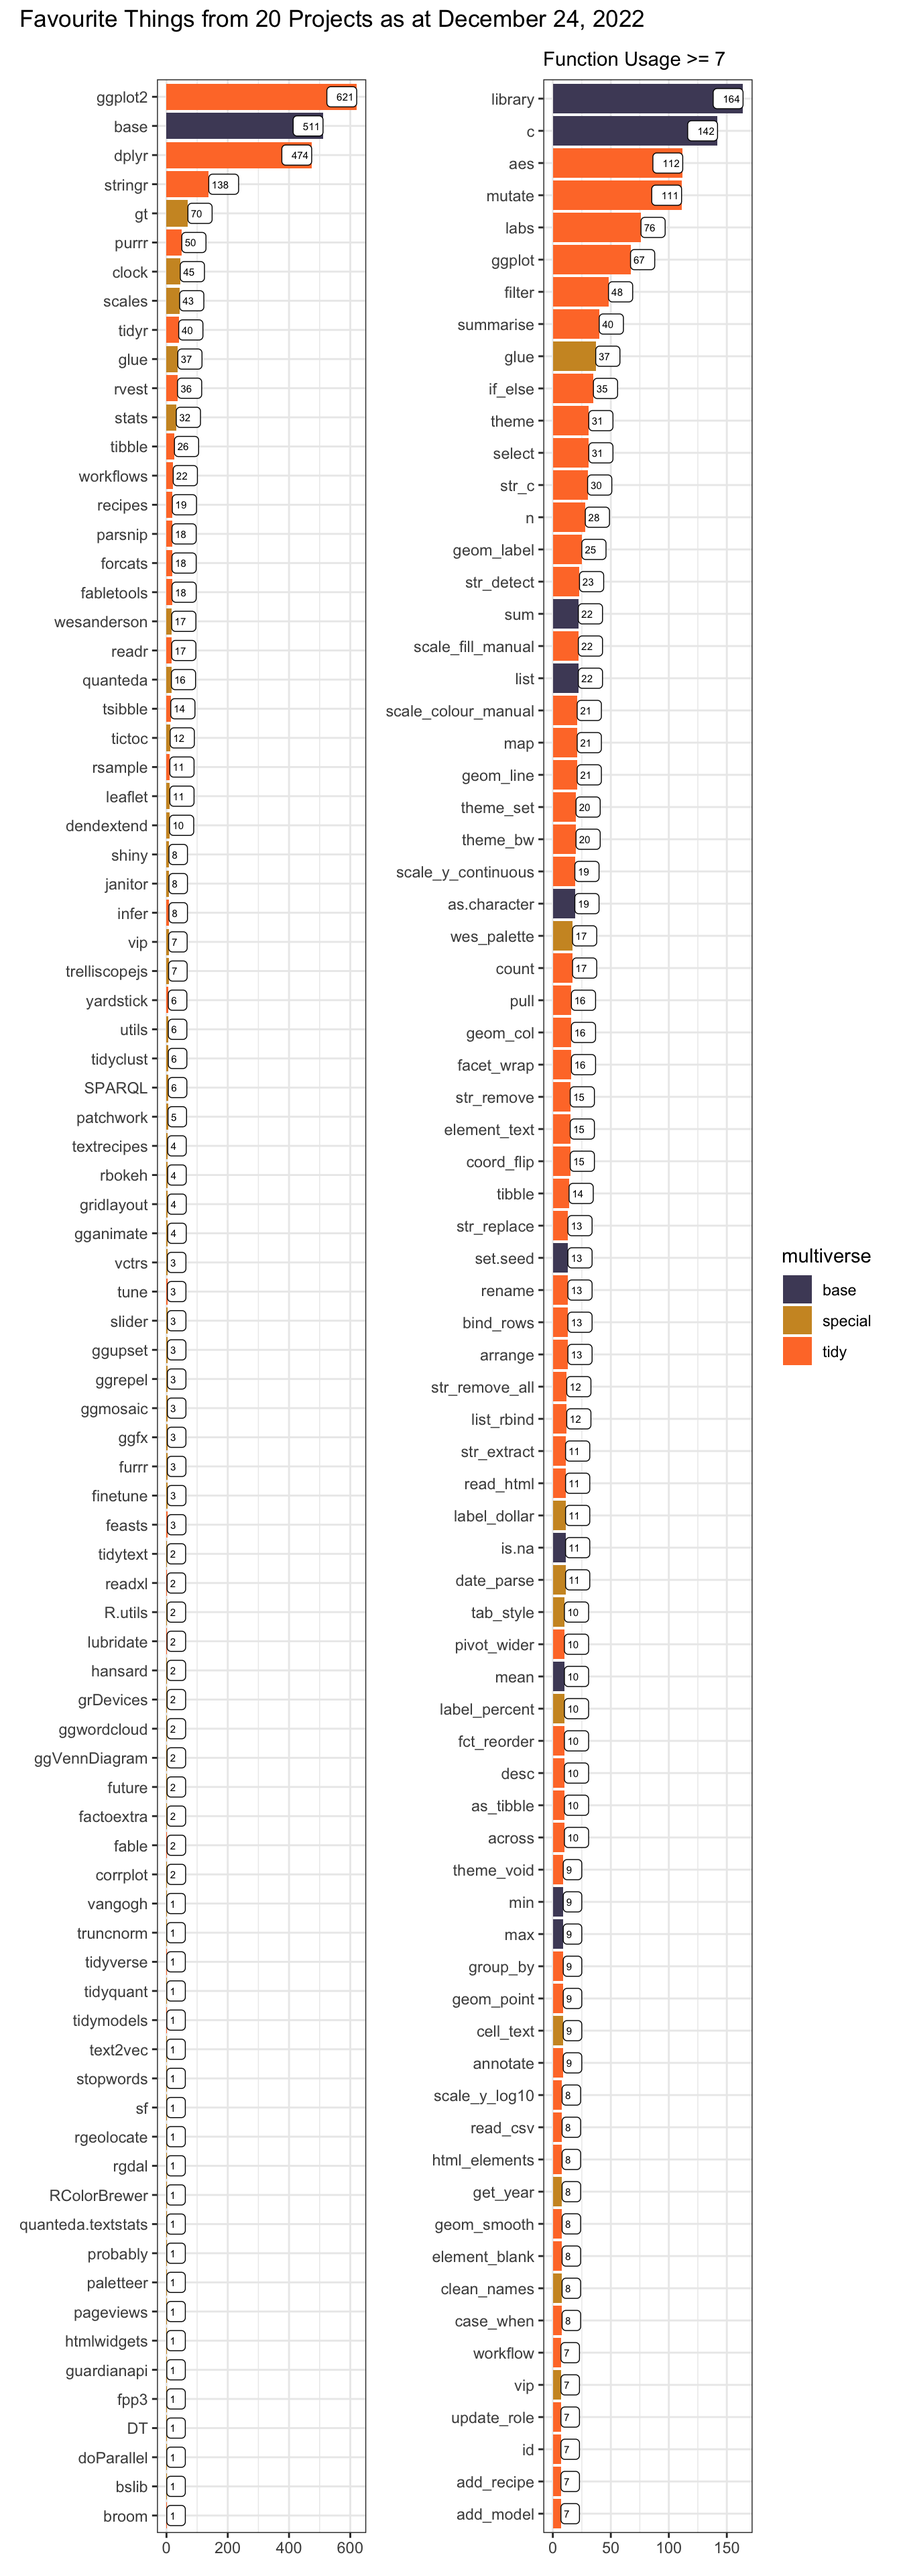
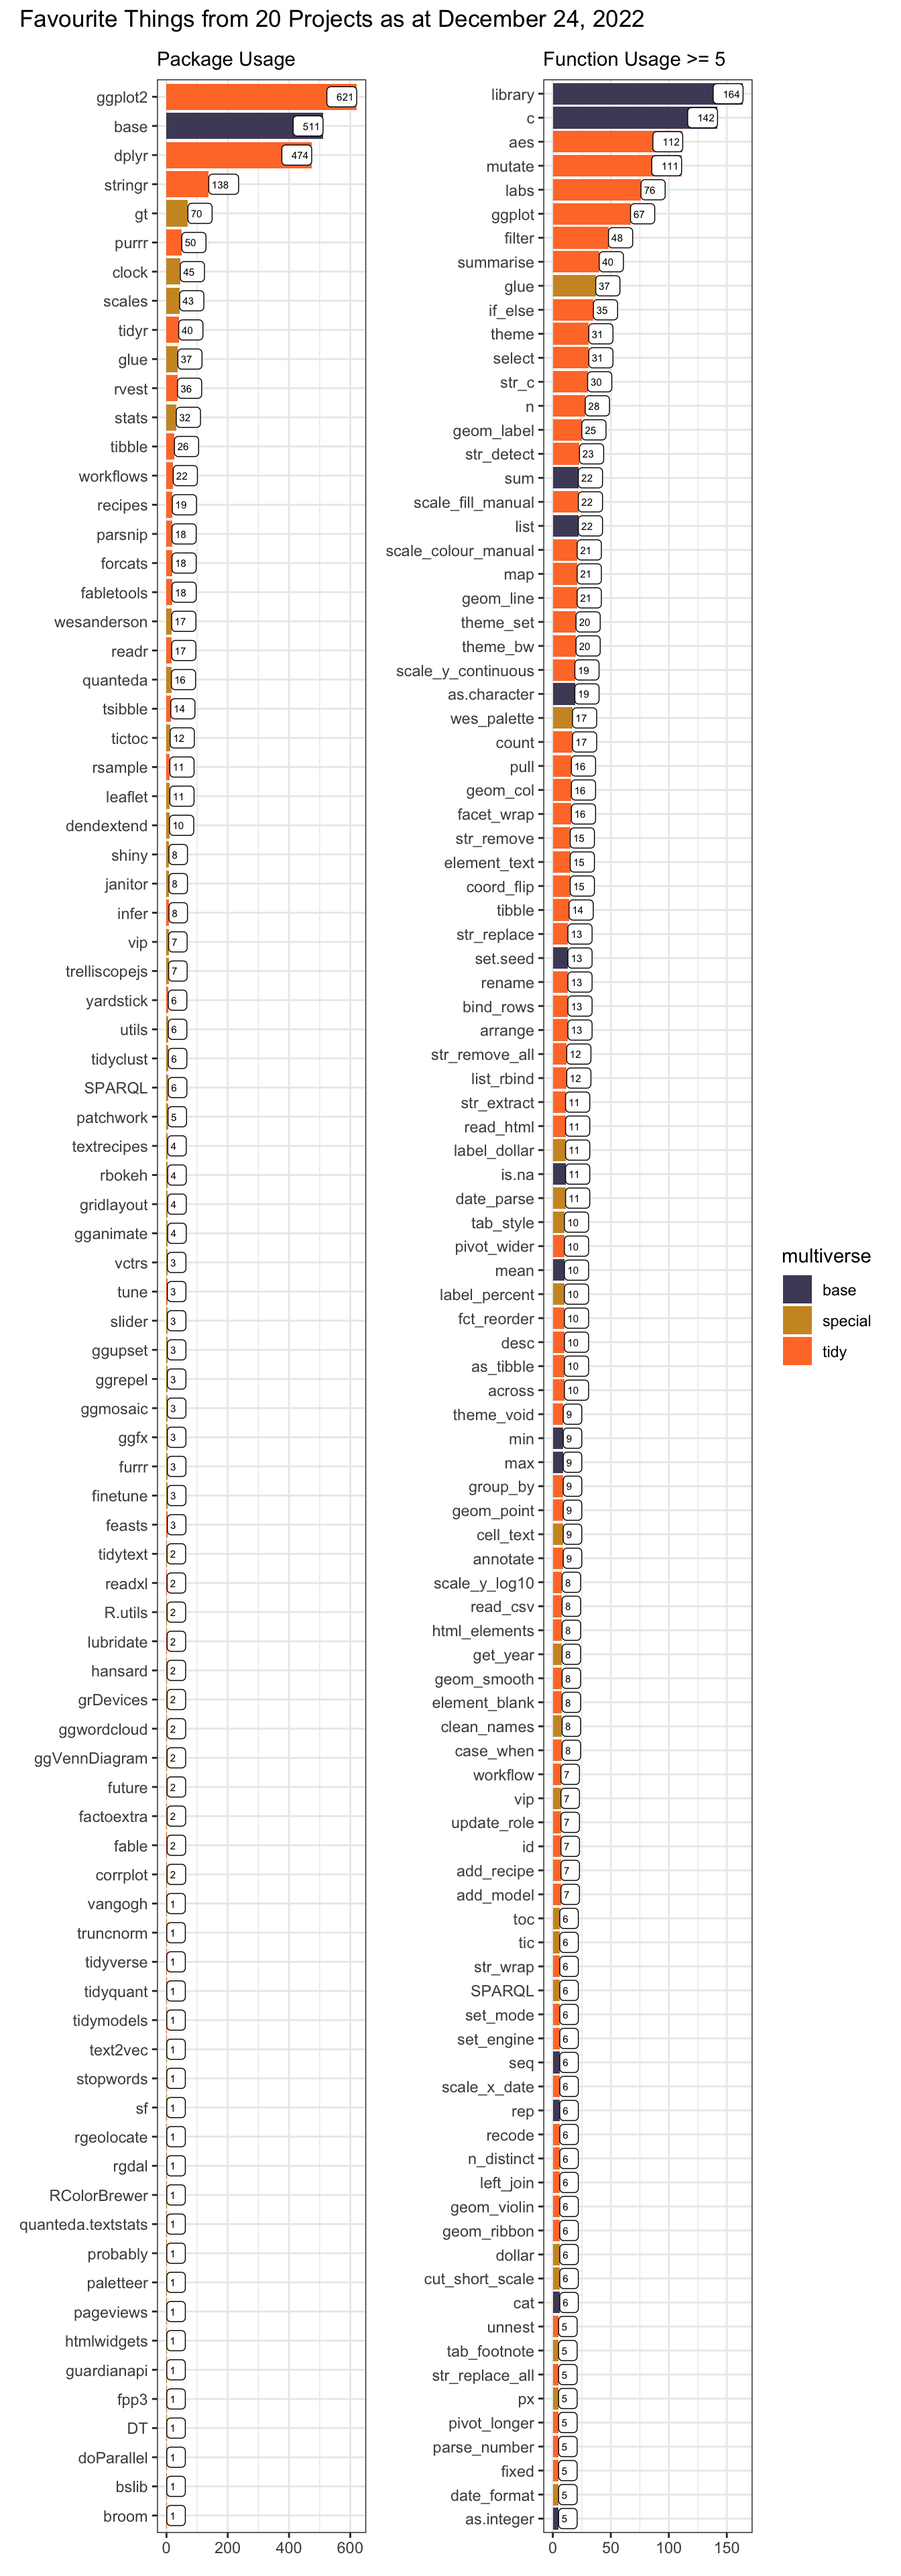
Update Toolbox

Changed region(s): [[0.4375, 0.0312, 0.8438, 1.0], [0.75, 0.5, 0.7812, 0.5312]]

diff --git a/_site/project/box/index.html b/_site/project/box/index.html
@@ -224,7 +224,7 @@ code span.wa { color: #60a0b0; font-weight: bold; font-style: italic; } /* Warni
     <div>
     <div class="quarto-title-meta-heading">Modified</div>
     <div class="quarto-title-meta-contents">
-      <p class="date-modified">December 23, 2022</p>
+      <p class="date-modified">December 24, 2022</p>
     </div>
   </div>
     
@@ -232,9 +232,14 @@ code span.wa { color: #60a0b0; font-weight: bold; font-style: italic; } /* Warni
   
 
 </header><p><img src="feature-1.png" class="img-fluid" alt="Wordcloud of this site's most used R packages and functions"></p>
-<p>Each <a href="../../project/">project</a> closes with a table summarising the R tools used. By visualising the most frequently used packages and functions I can get a sense of where I may most benefit from going deeper into the latest package versions.</p>
-<p>Early on, it was an opportunity to replace superseded functions like <code>spread</code> and <code>gather</code> with <code>pivot_wider</code> and <code>pivot_longer</code>. More recently there have been examples of using newer packages such as <a href="https://github.com/EmilHvitfeldt/tidyclust">tidyclust</a>, which brings cluster modelling to tidymodels (used in the latest quarto version of <a href="https://www.quantumjitter.com/project/happiness/">Finding Happiness in ‘The Smoke’</a>), or <a href="https://rstudio.github.io/bslib/">bslib</a>, used in the latest shiny app embedded in <a href="https://www.quantumjitter.com/project/thicken/">Plots Thicken</a>.</p>
-<p>And in the latest refresh, the newest versions of dplyr and purrr have offered many opportunities for improvements. For example, the <code>.by</code> argument in <code>mutate</code> and friends as an alternative to <code>group_by</code> and <code>ungroup</code>. And changes in the <code>map_</code> family which introduce <code>list_rbind</code> and associates.</p>
+<p>Each <a href="../../project/">project</a> closes with a table summarising the R tools used. By aggregating the package and function usage across all projects, there’s an opportunity to:</p>
+<ul>
+<li><p>Spot the use of superseded functions like <code>map_dfr</code></p></li>
+<li><p>Check for usage consistency, e.g.&nbsp;<code><a href="https://clock.r-lib.org/reference/date-today.html">clock::date_today</a></code> versus <code>Sys.Date</code></p></li>
+<li><p>See where it would be most useful to keep an eye on package version updates</p></li>
+</ul>
+<p>Since starting this in 2017, functions like tidyr’s <code>spread</code> and <code>gather</code> have been superseded by <code>pivot_wider</code> and <code>pivot_longer</code>. Newer packages have emerged like <a href="https://github.com/EmilHvitfeldt/tidyclust">tidyclust</a>, which brings cluster modelling to tidymodels (now used in <a href="https://www.quantumjitter.com/project/happiness/">Finding Happiness in ‘The Smoke’</a>). <a href="https://rstudio.github.io/bslib/">bslib</a> has brought improvements to the latest shiny app version embedded in <a href="https://www.quantumjitter.com/project/thicken/">Plots Thicken</a>. The paletteer package has put it’s arms around the myriad palette packages out there. And scales’ <code>cut_short_scale</code> assisted with plot labelling.</p>
+<p>Most recently, the latest versions of dplyr and purrr have presented a host of enhancements. For example, the <code>.by</code> argument in <code>mutate</code> and friends offers a neat alternative to <code>group_by</code> and <code>ungroup</code> in many situations. And changes in the <code>map_</code> family introduce <code>list_rbind</code> and associates with <code>map_dfr</code>, for example, now superseded.</p>
 <div class="cell">
 <div class="sourceCode" id="cb1"><pre class="downlit sourceCode r code-with-copy"><code class="sourceCode R"><span><span class="kw"><a href="https://rdrr.io/r/base/library.html">library</a></span><span class="op">(</span><span class="va"><a href="https://tidyverse.tidyverse.org">tidyverse</a></span><span class="op">)</span></span>
 <span><span class="kw"><a href="https://rdrr.io/r/base/library.html">library</a></span><span class="op">(</span><span class="va"><a href="https://github.com/juliasilge/tidytext">tidytext</a></span><span class="op">)</span></span>
@@ -276,7 +281,7 @@ code span.wa { color: #60a0b0; font-weight: bold; font-style: italic; } /* Warni
 <p><img src="index_files/figure-html/theme-1.png" class="img-fluid" style="width:100.0%"></p>
 </div>
 </div>
-<p>I’ll start by grabbing the url for all projects.</p>
+<p>We need to web-scrape <a href="https://www.quantumjitter.com/project/">all the projects on this web-site</a>, starting by grabbing the url for each one.</p>
 <div class="cell">
 <div class="sourceCode" id="cb3"><pre class="downlit sourceCode r code-with-copy"><code class="sourceCode R"><span><span class="va">urls</span> <span class="op">&lt;-</span> <span class="st">"https://www.quantumjitter.com/project/"</span> <span class="op">|&gt;</span> </span>
 <span>  <span class="fu"><a href="http://xml2.r-lib.org/reference/read_xml.html">read_html</a></span><span class="op">(</span><span class="op">)</span> <span class="op">|&gt;</span> </span>
@@ -286,7 +291,7 @@ code span.wa { color: #60a0b0; font-weight: bold; font-style: italic; } /* Warni
 <span>  <span class="fu"><a href="https://dplyr.tidyverse.org/reference/transmute.html">transmute</a></span><span class="op">(</span><span class="fu"><a href="https://stringr.tidyverse.org/reference/str_c.html">str_c</a></span><span class="op">(</span><span class="st">"https://www.quantumjitter.com/"</span>, <span class="va">value</span><span class="op">)</span><span class="op">)</span> <span class="op">|&gt;</span> </span>
 <span>  <span class="fu"><a href="https://dplyr.tidyverse.org/reference/pull.html">pull</a></span><span class="op">(</span><span class="op">)</span></span></code><button title="Copy to Clipboard" class="code-copy-button"><i class="bi"></i></button></pre></div>
 </div>
-<p>This enables me to extract the package and function usage table for each one.</p>
+<p>Then we can extract their package and function usage tables.</p>
 <div class="cell">
 <div class="sourceCode" id="cb4"><pre class="downlit sourceCode r code-with-copy"><code class="sourceCode R"><span><span class="va">table_df</span> <span class="op">&lt;-</span> <span class="fu"><a href="https://purrr.tidyverse.org/reference/map.html">map</a></span><span class="op">(</span><span class="va">urls</span>, \<span class="op">(</span><span class="va">x</span><span class="op">)</span> <span class="op">{</span></span>
 <span>  <span class="va">x</span> <span class="op">|&gt;</span></span>
@@ -300,7 +305,7 @@ code span.wa { color: #60a0b0; font-weight: bold; font-style: italic; } /* Warni
 <span>  <span class="fu"><a href="https://dplyr.tidyverse.org/reference/select.html">select</a></span><span class="op">(</span><span class="va">package</span>, <span class="va">functn</span><span class="op">)</span> <span class="op">|&gt;</span></span>
 <span>  <span class="fu"><a href="https://tidyr.tidyverse.org/reference/drop_na.html">drop_na</a></span><span class="op">(</span><span class="op">)</span></span></code><button title="Copy to Clipboard" class="code-copy-button"><i class="bi"></i></button></pre></div>
 </div>
-<p>A little “spring cleaning” is needed, and separation of tidyverse and non-tidyverse packages.</p>
+<p>Separation of tidyverse and non-tidyverse packages may be achieved by using the likes of <code>tidyverse_packages</code> which lists all packages in the tidyverse.</p>
 <ul>
 <li><a href="https://www.tidyverse.org/packages/">tidyverse</a></li>
 <li><a href="https://www.tidymodels.org/packages/">tidymodels</a></li>
@@ -329,7 +334,7 @@ code span.wa { color: #60a0b0; font-weight: bold; font-style: italic; } /* Warni
 <span>    <span class="cn">TRUE</span> <span class="op">~</span> <span class="st">"special"</span></span>
 <span>  <span class="op">)</span><span class="op">)</span></span></code><button title="Copy to Clipboard" class="code-copy-button"><i class="bi"></i></button></pre></div>
 </div>
-<p>Then I can summarise usage and prepare for a faceted plot.</p>
+<p>Then we can summarise usage.</p>
 <div class="cell">
 <div class="sourceCode" id="cb6"><pre class="downlit sourceCode r code-with-copy"><code class="sourceCode R"><span><span class="va">pack_df</span> <span class="op">&lt;-</span> <span class="va">tidy_df</span> <span class="op">|&gt;</span></span>
 <span>  <span class="fu"><a href="https://dplyr.tidyverse.org/reference/count.html">count</a></span><span class="op">(</span><span class="va">package</span>, <span class="va">multiverse</span>, wt <span class="op">=</span> <span class="va">n</span><span class="op">)</span> <span class="op">|&gt;</span></span>
@@ -350,8 +355,8 @@ code span.wa { color: #60a0b0; font-weight: bold; font-style: italic; } /* Warni
 <span>    .by <span class="op">=</span> <span class="va">name</span></span>
 <span>  <span class="op">)</span></span></code><button title="Copy to Clipboard" class="code-copy-button"><i class="bi"></i></button></pre></div>
 </div>
-<p>I’ve taken advantage of Quarto’s <code>{{&lt; include _foobar.qmd &gt;}}</code> to lift, standardise and simplify the toolbox code from the end of every project. Previously, this code (broadly repeated 20 times) inflated the function usage numbers.</p>
-<p>With the latest versions of dplyr and purrr, <code>group_by</code> has dropped a significant number of places and <code>list_rbind</code> has taken a prominent position.</p>
+<p>Use of Quarto’s <code>{{&lt; include _foobar.qmd &gt;}}</code> has enabled the lifting, standardisation and simplification of the toolbox code. Previously this code (essentially replicated across the 20 projects) inflated the usage numbers.</p>
+<p>With the latest versions of dplyr and purrr, usage of <code>group_by</code>, <code>ungroup</code> and <code>map_dfr</code> has fallen away whilst <code>list_rbind</code> has newly appeared.</p>
 <div class="cell">
 <div class="sourceCode" id="cb7"><pre class="downlit sourceCode r code-with-copy"><code class="sourceCode R"><span><span class="va">p1</span> <span class="op">&lt;-</span> <span class="va">packfun_df</span> <span class="op">|&gt;</span></span>
 <span>  <span class="fu"><a href="https://dplyr.tidyverse.org/reference/filter.html">filter</a></span><span class="op">(</span><span class="va">name</span> <span class="op">==</span> <span class="st">"package"</span><span class="op">)</span> <span class="op">|&gt;</span> </span>
@@ -360,9 +365,10 @@ code span.wa { color: #60a0b0; font-weight: bold; font-style: italic; } /* Warni
 <span>  <span class="fu"><a href="https://ggplot2.tidyverse.org/reference/coord_flip.html">coord_flip</a></span><span class="op">(</span><span class="op">)</span> <span class="op">+</span></span>
 <span>  <span class="fu"><a href="https://ggplot2.tidyverse.org/reference/geom_text.html">geom_label</a></span><span class="op">(</span><span class="fu"><a href="https://ggplot2.tidyverse.org/reference/aes.html">aes</a></span><span class="op">(</span>label <span class="op">=</span> <span class="va">n</span><span class="op">)</span>, hjust <span class="op">=</span> <span class="st">"inward"</span>, size <span class="op">=</span> <span class="fl">2</span>, fill <span class="op">=</span> <span class="st">"white"</span><span class="op">)</span> <span class="op">+</span></span>
 <span>  <span class="fu"><a href="https://ggplot2.tidyverse.org/reference/scale_manual.html">scale_fill_manual</a></span><span class="op">(</span>values <span class="op">=</span> <span class="va">cols</span><span class="op">[</span><span class="fu"><a href="https://rdrr.io/r/base/c.html">c</a></span><span class="op">(</span><span class="fl">2</span>, <span class="fl">3</span>, <span class="fl">4</span><span class="op">)</span><span class="op">]</span><span class="op">)</span> <span class="op">+</span></span>
-<span>  <span class="fu"><a href="https://ggplot2.tidyverse.org/reference/labs.html">labs</a></span><span class="op">(</span>x <span class="op">=</span> <span class="cn">NULL</span>, y <span class="op">=</span> <span class="cn">NULL</span><span class="op">)</span></span>
+<span>  <span class="fu"><a href="https://ggplot2.tidyverse.org/reference/labs.html">labs</a></span><span class="op">(</span>x <span class="op">=</span> <span class="cn">NULL</span>, y <span class="op">=</span> <span class="cn">NULL</span>, </span>
+<span>       subtitle <span class="op">=</span> <span class="fu"><a href="https://glue.tidyverse.org/reference/glue.html">glue</a></span><span class="op">(</span><span class="st">"Package Usage"</span><span class="op">)</span><span class="op">)</span></span>
 <span></span>
-<span><span class="va">min_n</span> <span class="op">&lt;-</span> <span class="fl">7</span></span>
+<span><span class="va">min_n</span> <span class="op">&lt;-</span> <span class="fl">5</span></span>
 <span></span>
 <span><span class="va">p2</span> <span class="op">&lt;-</span> <span class="va">packfun_df</span> <span class="op">|&gt;</span></span>
 <span>  <span class="fu"><a href="https://dplyr.tidyverse.org/reference/filter.html">filter</a></span><span class="op">(</span><span class="va">name</span> <span class="op">==</span> <span class="st">"function"</span>, <span class="va">n</span> <span class="op">&gt;=</span> <span class="va">min_n</span><span class="op">)</span> <span class="op">|&gt;</span> </span>
@@ -385,7 +391,7 @@ code span.wa { color: #60a0b0; font-weight: bold; font-style: italic; } /* Warni
 <p><img src="index_files/figure-html/plot-1.png" class="img-fluid" style="width:100.0%"></p>
 </div>
 </div>
-<p>I’d also like a word cloud generated as the new featured image for this project.</p>
+<p>This last code chunk generates the word cloud for use as the feature image for this project.</p>
 <div class="cell">
 <div class="sourceCode" id="cb8"><pre class="downlit sourceCode r code-with-copy"><code class="sourceCode R"><span><span class="va">set.seed</span> <span class="op">=</span> <span class="fl">123</span></span>
 <span></span>
@@ -412,7 +418,7 @@ code span.wa { color: #60a0b0; font-weight: bold; font-style: italic; } /* Warni
 </div>
 </div>
 <section id="r-toolbox" class="level2"><h2 class="anchored" data-anchor-id="r-toolbox">R Toolbox</h2>
-<p>A little bit circular, but I might as well include this code too in my “favourite things”.</p>
+<p>This project’s code too should be included in my “favourite things”.</p>
 <div class="cell">
 <div class="cell-output-display">
 <div class="kable-table">
@@ -456,7 +462,7 @@ code span.wa { color: #60a0b0; font-weight: bold; font-style: italic; } /* Warni
 </tr>
 <tr class="even">
 <td style="text-align: left;">glue</td>
-<td style="text-align: left;">glue[3]</td>
+<td style="text-align: left;">glue[4]</td>
 </tr>
 <tr class="odd">
 <td style="text-align: left;">janitor</td>

diff --git a/_site/project/index.html b/_site/project/index.html
@@ -429,7 +429,7 @@ Aug 2, 2020
 </div>
 </a>
 </div>
-<div class="g-col-1" data-index="7" data-categories="R,web scraping" data-listing-date-sort="1595718000000" data-listing-file-modified-sort="1671826181676" data-listing-date-modified-sort="1671826181000" data-listing-reading-time-sort="4.88">
+<div class="g-col-1" data-index="7" data-categories="R,web scraping" data-listing-date-sort="1595718000000" data-listing-file-modified-sort="1671884410795" data-listing-date-modified-sort="1671884410000" data-listing-reading-time-sort="5.135">
 <a href="../project/box/index.html" class="quarto-grid-link">
 <div class="quarto-grid-item card h-100 card-left">
 <p class="card-img-top">
@@ -440,7 +440,7 @@ Aug 2, 2020
 Favourite Things
 </h5>
 <div class="listing-reading-time card-text text-muted">
-4 min
+5 min
 </div>
 <div class="card-text listing-description">
 R packages &amp; functions that make doing data science a joy based on usage across projects
@@ -453,7 +453,7 @@ Jul 26, 2020
 </div>
 <div class="card-footer">
 <div class="card-file-modified listing-file-modified">
-<p>Dec 23, 2022</p>
+<p>Dec 24, 2022</p>
 </div>
 </div>
 </div>
